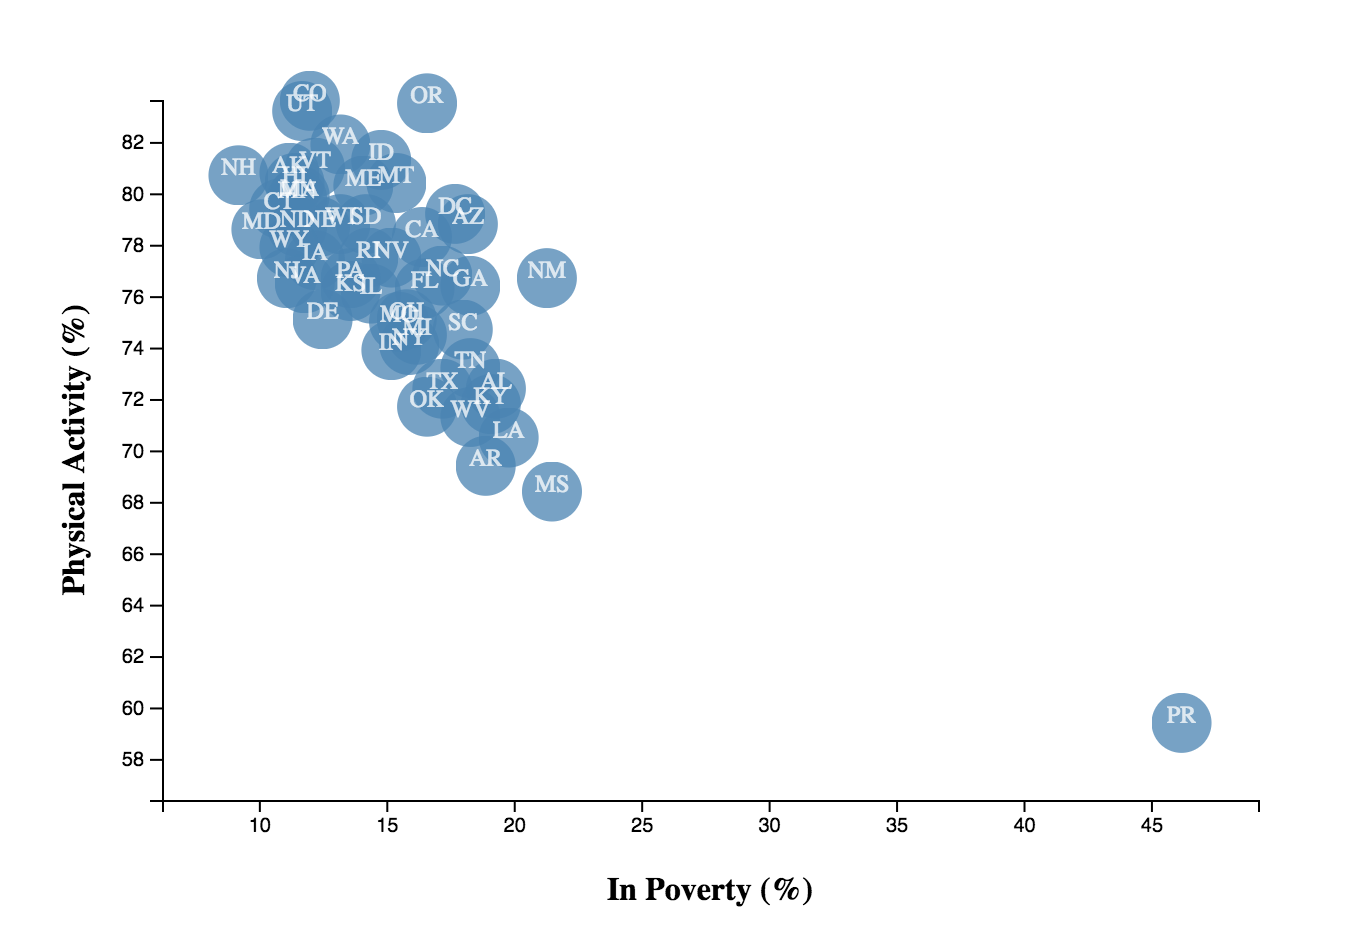
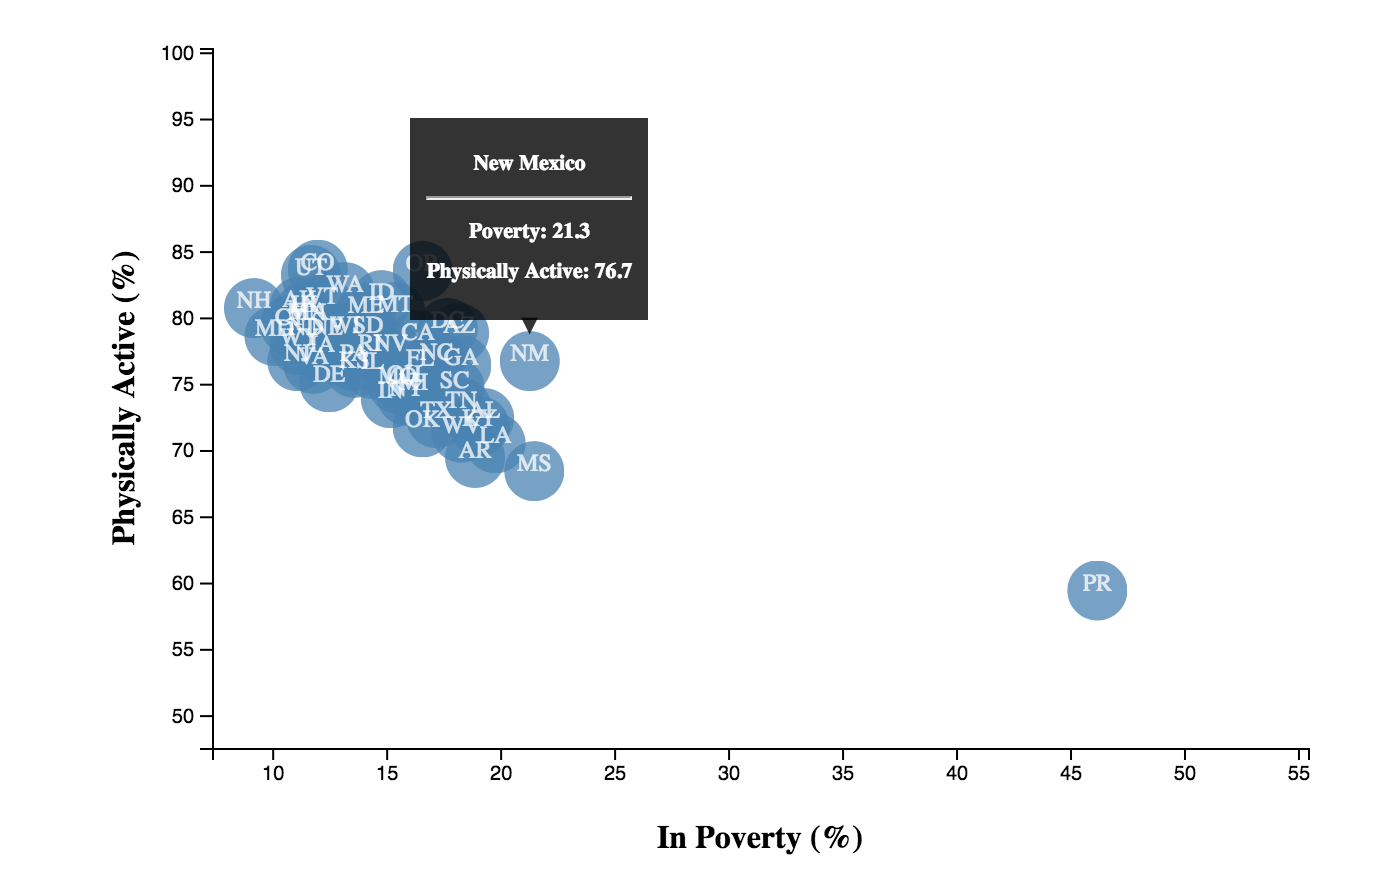
Add files via upload

diff --git a/index.js b/index.js
@@ -51,10 +51,10 @@ function makeResponsive(){
         // define xScale's min and max
         function createXscale(columnName){
             xMin = d3.min(data,d=>{
-                return d[columnName]-3   //can't use dotnotation here
+                return d[columnName]*0.8   //can't use dotnotation here
             });
             xMax = d3.max(data,d=>{
-                return d[columnName]+3
+                return d[columnName]*1.2
             });
             // console.log(xMin,xMax)
         }
@@ -67,10 +67,10 @@ function makeResponsive(){
         //define yScale min and max
         function createYscale(columnName){
             yMin = d3.min(data,d=>{
-                return d[columnName] -3     //can't use dotnotation here
+                return d[columnName] *0.8     //can't use dotnotation here
             });
             yMax = d3.max(data,d=>{
-                return d[columnName]+3
+                return d[columnName]*1.2
             });
             // console.log(yMin,yMax)
         }
@@ -111,7 +111,7 @@ function makeResponsive(){
             .attr("text-anchor","middle")
             .attr("transform",`translate(-39,${chartHeight /2})rotate(-90)`)
             .attr("font-weight","bolder")
-            .text("Physical Activity (%)");
+            .text("Physically Active (%)");
         // add xAxis label
         chartGroup.append("text")
             .attr("text-anchor","middle")
@@ -123,7 +123,7 @@ function makeResponsive(){
             .attr("class","d3-tip")
             .offset([-10,0])
             .html(function(data){
-                return `<p>${data.state}</p><hr><p>Poverty: ${data[xColumn]}</p><p>Physical Activity: ${data[yColumn]}</p>`
+                return `<p>${data.state}</p><hr><p>Poverty: ${data[xColumn]}</p><p>Physically Active: ${data[yColumn]}</p>`
             })
         circlesGroup.call(toolTip);
         // add text on data points
@@ -137,7 +137,6 @@ function makeResponsive(){
             .text(d=>d.abbr)
             .attr("font-size", "12px")
             .attr("text-anchor", "middle")
-            .attr("class","stateText")
             .attr("fill","white")
             .attr('opacity',0.75)
             .on("mouseover",toolTip.show)  //mouseover event

diff --git a/index.html b/index.html
@@ -42,7 +42,7 @@
         </div>
         <div class="row">
             <hr>
-            <p>There seems to be a correlation between the percentage of poverty and physical activity. As the percentage in poverty increases, the percentage in physical activity decrease. It is interesting to see how the state of Puerto Rico is getting clustered-out from the inland states in North America.</p>
+            <p>There seems to be a correlation between the percentage of poverty and physically active. As the percentage in poverty increases, the percentage in physically active decreases. It is interesting to see how the state of Puerto Rico is getting clustered-out from the inland states in North America.</p>
             <a href="https://github.com/weekysui/data_journal">Explore the d3.js code</a>
         </div>
     </div>    
